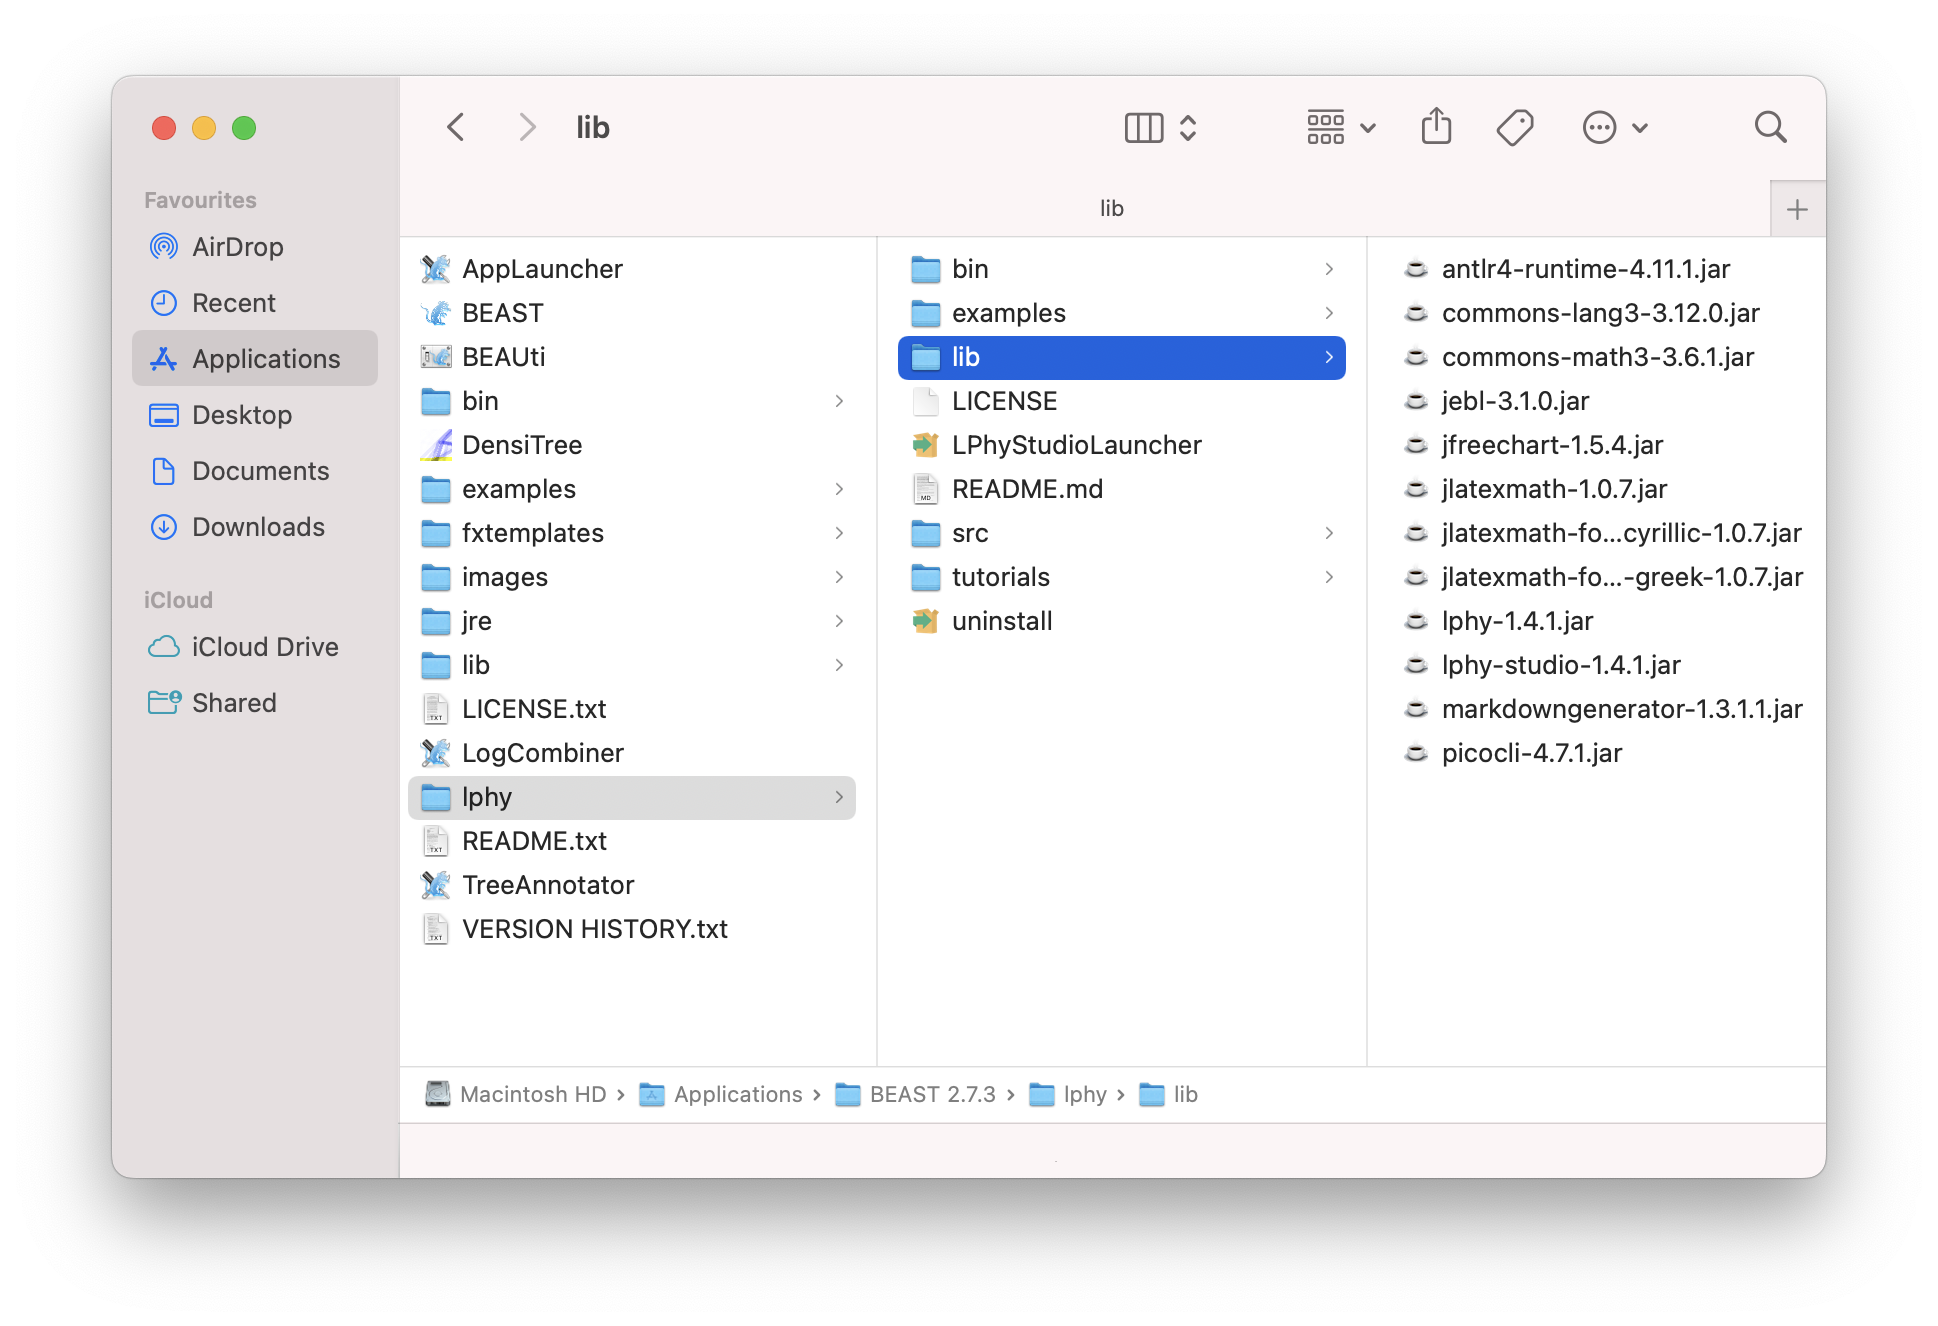
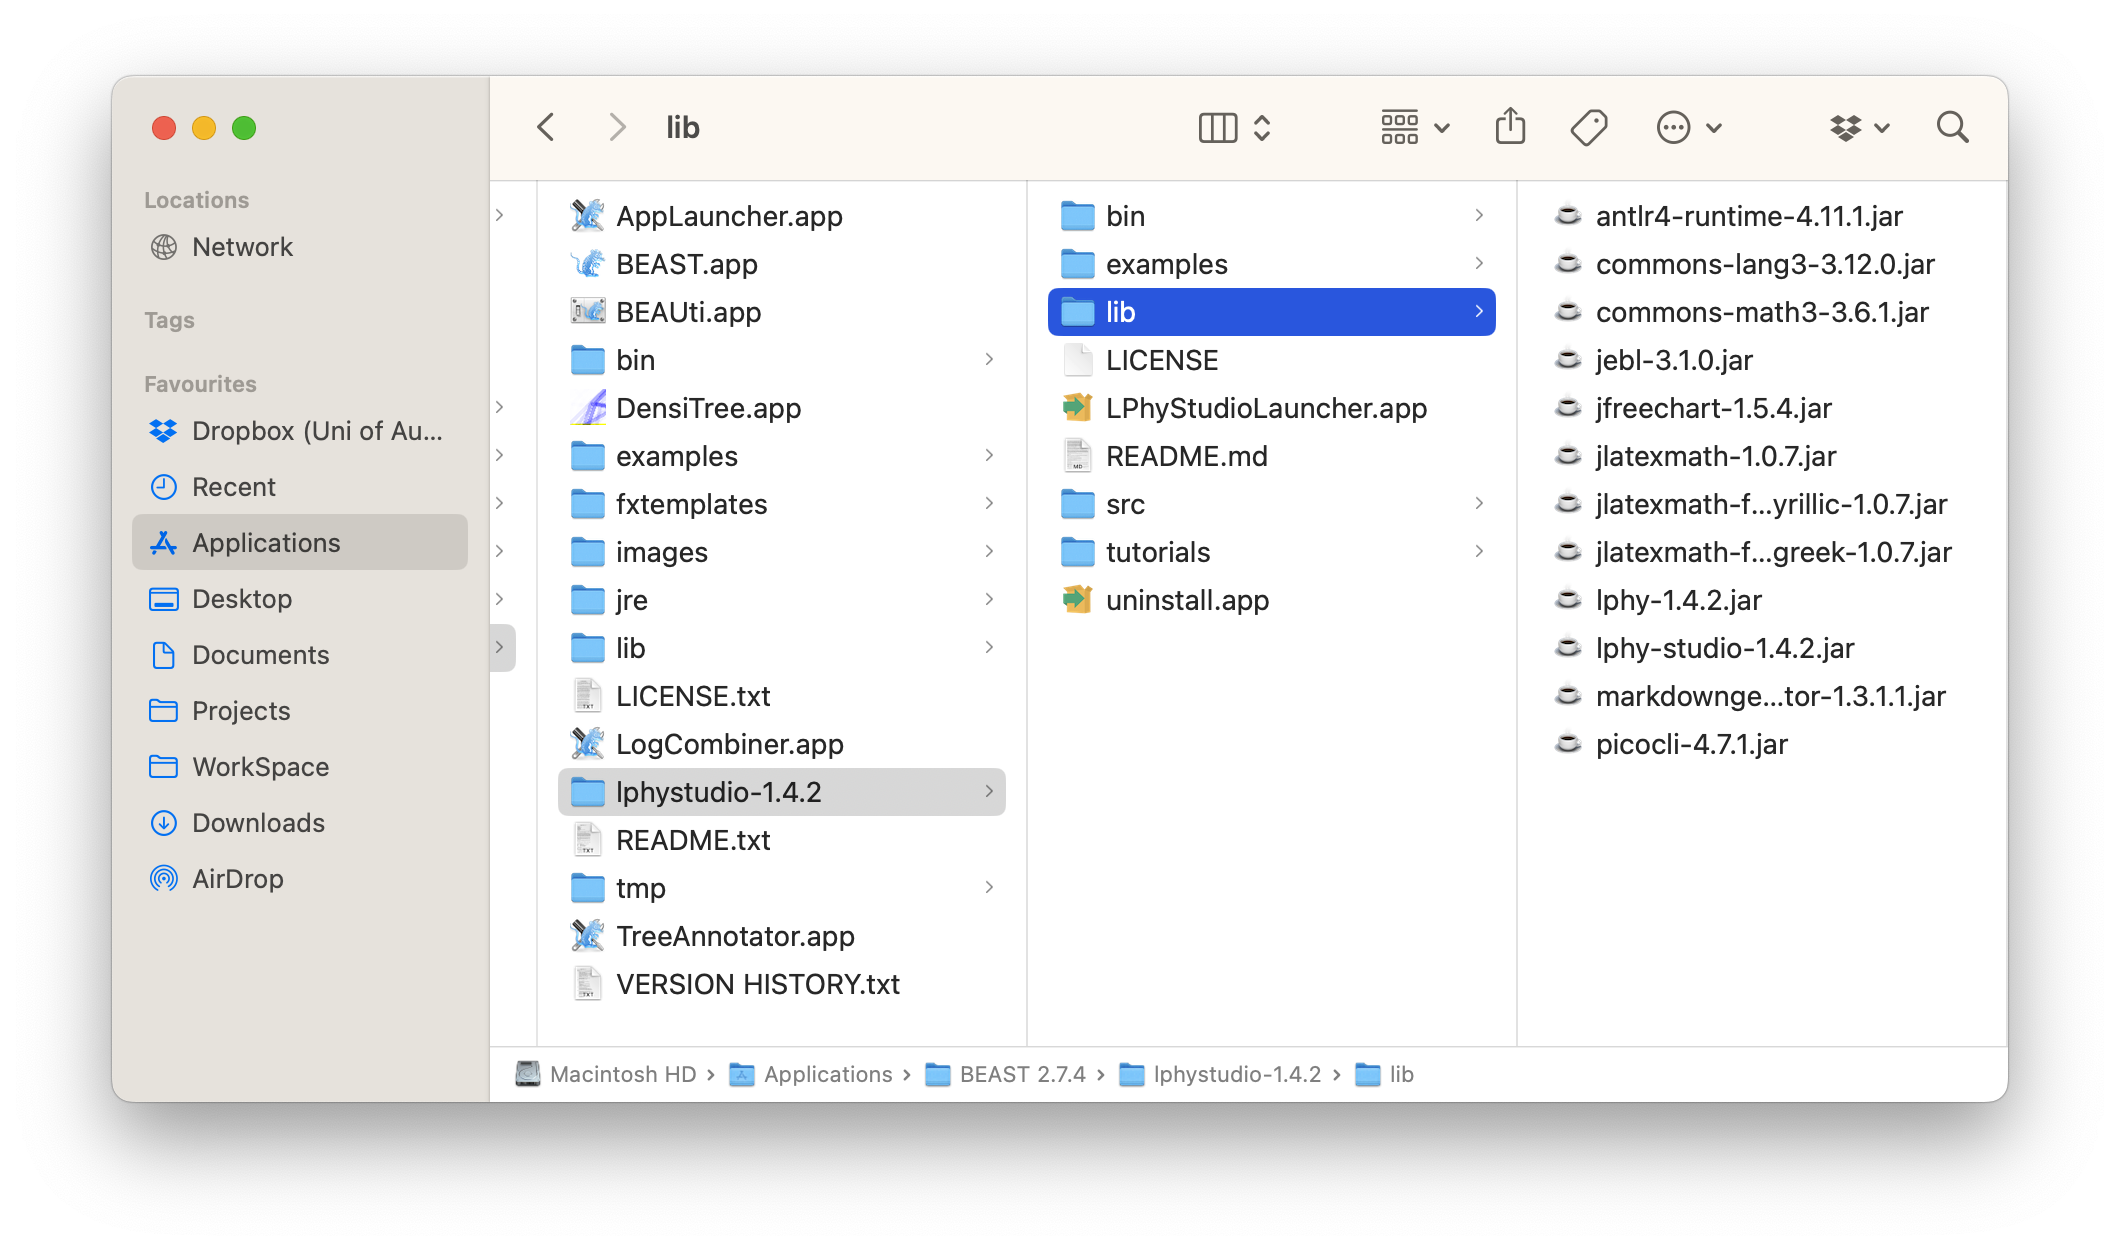
update user manual

diff --git a/setup.md b/setup.md
@@ -26,16 +26,19 @@ java -version
 
 ## LPhy Studio installation
 
-{% assign lphy_version = "1.4.1" %}
+{% assign lphy_version = "1.4.x" %}
 
-Go to the [LPhy releases page](https://github.com/LinguaPhylo/linguaPhylo/releases), 
-and download the [latest installer](https://github.com/LinguaPhylo/linguaPhylo/releases/latest) for your operating system:  
+Please click on the link below to download the version that corresponds to your operating system:
 
 - Mac [lphystudio-1.4.1-osx-installer.dmg](https://github.com/LinguaPhylo/linguaPhylo/releases/download/1.4.1/lphystudio-1.4.1-osx-installer.dmg)
 
 - Windows [lphystudio-1.4.1-windows-x64-installer.exe](https://github.com/LinguaPhylo/linguaPhylo/releases/download/1.4.1/lphystudio-1.4.1-windows-x64-installer.exe)
 
 - Linux [lphy-studio-1.4.1.zip](https://github.com/LinguaPhylo/linguaPhylo/releases/download/1.4.1/lphy-studio-1.4.1.zip)
+
+Alternatively, you can visit the LinguaPhylo GitHub release page 
+to check the [latest version](https://github.com/LinguaPhylo/linguaPhylo/releases/latest).
+All release versions of the software are available on the [LPhy releases page](https://github.com/LinguaPhylo/linguaPhylo/releases).  
 
 
 ### Linux
@@ -60,9 +63,9 @@ Double click the installer and follow the install wizard to complete the install
   <figcaption>Figure 1: Installing LPhy Studio.</figcaption>
 </figure>
 
-To use LPhy with LPhyBEAST, we recommend that you install LPhy Studio inside your BEAST 2.* folder, and name the install directory `lphy`. 
+To use LPhy with LPhyBEAST, we recommend that you install LPhy Studio inside your BEAST 2.* folder. 
 
-Here the LPhy installation location is `/Applications/Beast 2.7.3/lphy`
+Here the LPhy installation location is `/Applications/Beast 2.7.x/lphy-studio-{{lphy_version}}`
 
 <figure class="image">
   <a href="/images/LPhyStudioInstallerLocation.png">
@@ -136,13 +139,7 @@ Alternatively, you can install the `lphybeast` and `LPhyBeastExt` packages using
 
 The package `lphybeast` does not include LPhy, so we need to install LPhy separately.
 
-1. Download the LPhy Studio installer from the [release page](https://github.com/LinguaPhylo/linguaPhylo/releases) for your operating system: 
-
-- Mac [lphystudio-1.4.1-osx-installer.dmg](https://github.com/LinguaPhylo/linguaPhylo/releases/download/1.4.1/lphystudio-1.4.1-osx-installer.dmg)
-
-- Windows [lphystudio-1.4.1-windows-x64-installer.exe](https://github.com/LinguaPhylo/linguaPhylo/releases/download/1.4.1/lphystudio-1.4.1-windows-x64-installer.exe)
-
-- Linux [lphy-studio-1.4.1.zip](https://github.com/LinguaPhylo/linguaPhylo/releases/download/1.4.1/lphy-studio-1.4.1.zip)
+1. Download the LPhy Studio installer. See the section of [LPhy Studio installation](#lphy-studio-installation).
 
 Note: You may skip steps 1-2 if you have already installed LPhyStudio in your BEAST 2 directory. 
 
